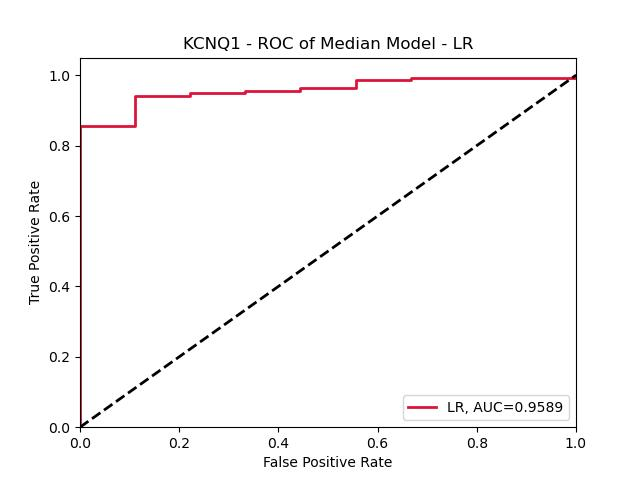
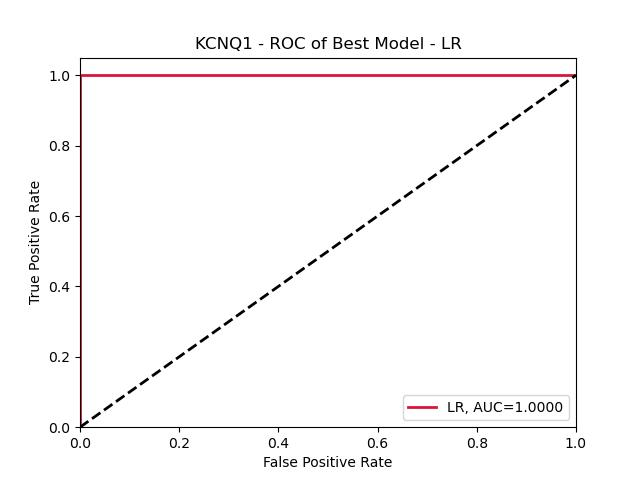
making more progress

Changed region(s): [[0.125, 0.1562, 0.9062, 0.2812], [0.2812, 0.0625, 0.75, 0.125], [0.8125, 0.8438, 0.875, 0.875]]

diff --git a/main.py b/main.py
@@ -5,6 +5,9 @@ import matplotlib.pyplot as plt
 import numpy as np
 import pandas as pd
 import seaborn as sns
+from sklearn.ensemble import GradientBoostingClassifier, RandomForestClassifier
+from sklearn.linear_model import LogisticRegression
+from sklearn.tree import DecisionTreeClassifier
 
 from data import prepare_data
 
@@ -20,23 +23,21 @@ class RunStudy:
         self.modeling_approach = modeling_approach
         self.what_to_run = what_to_run
         self.iterations = iterations
-        self.best_models_from_cross_validation = {} #this keeps a dictionary of the best model obtained for the cross-validation of the given seed. Key: seed, Value: best_model
 
         self.run_evaluate_with_various_seeds(self.gene_name, self.what_to_run, self.modeling_approach, self.iterations)
-        make_figures.MakeFigures(self.gene_name, self.median_model, self.data_median_model, self.results_df, self.modeling_approach)
+        make_figures.MakeFigures(self.gene_name, self.best_model, self.data_make_figures, self.results_df, self.modeling_approach, self.best_hyperparameters)
 
     def run_evaluate_with_various_seeds(self, gene_name, what_to_run, modeling_approach, iterations) -> pd.DataFrame:
         """This runs the run_evaluate method multiple times with different seeds in order to get the results for various train/test splits. It returns a DataFrame with the performance metrics and the hyperparameters picked for the given model."""
         all_features =['AA position', 'Score', 'Signal To Noise','Original','Change','Functional Domain']
         results_dict_list = []
-        unique_seeds = np.random.choice(np.arange(1, 270600), size=iterations, replace=False)
+        unique_seeds = np.random.choice(np.arange(11, 270600), size=iterations, replace=False)
         for i, seed in enumerate(unique_seeds):
             data = prepare_data.PrepareData(gene_name, all_features, seed) #Get data object with train/test splits for given seed
             print('\n*** Running ', modeling_approach,'***')
             run = run_models.RunModels(modeling_approach, data, what_to_run, seed) 
             evaluate = evaluate_models.EvaluateModels(modeling_approach, data, run.best_model, seed) #Evaluate best_model obtained from cross validation
-            self.best_models_from_cross_validation[seed] = run.best_model
-            print(evaluate.results_dict)
+            #print(evaluate.results_dict)
             results_dict_list.append(evaluate.results_dict)
 
         results_df = pd.DataFrame.from_dict(results_dict_list)
@@ -44,17 +45,35 @@ class RunStudy:
         #We need to group by hyperparameters, see which group performed the best across all different seeds and then use that group as the best model.
         print(results_df)
         self.results_df = results_df
-        get_best_hyperparameters.get_best_hyperparameters(results_df)
-        #Get seed for the best and median test AUC models to get the models and the splits used for their generation      
-        seed_median_model = results_df.iloc[len(results_df)//2, 0]
-        seed_best_model = results_df.iloc[0, 0]
-        self.median_model = self.best_models_from_cross_validation[seed_median_model]
-        self.best_model = self.best_models_from_cross_validation[seed_best_model]
-        self.data_best_model = prepare_data.PrepareData(self.gene_name, all_features, seed_best_model)
-        self.data_median_model = prepare_data.PrepareData(self.gene_name, all_features, seed_median_model)
+        best_hyperparameters = get_best_hyperparameters.get_best_hyperparameters(results_df) #Returns the group of hyperparameters that showed up the most and performed the best among the various runs of different seeds.
+        self.best_hyperparameters = best_hyperparameters
 
+        if modeling_approach == 'LR':
+            self.best_model = LogisticRegression(
+                penalty=best_hyperparameters.at[0,'Penalty'],
+                C=best_hyperparameters.at[0,'C'],
+                solver=best_hyperparameters.at[0, 'Solver'],
+            )
+            random_seed = np.random.randint(0, 10)
+            self.data_make_figures = prepare_data.PrepareData(self.gene_name, all_features, random_seed)
 
-RunStudy('KCNQ1', 'grid_search', 'LR', iterations=100)
+        elif modeling_approach == 'DecisionTree':
+            self.best_model = DecisionTreeClassifier(
+                max_depth=best_hyperparameters.at[0,'max_depth'],
+                criterion=best_hyperparameters.at[0, 'criterion'],
+            )
+
+        elif modeling_approach == 'RandomForest':
+            pass
+
+              
+
+        elif modeling_approach == 'GradientBoosting':
+            pass
+            
+        
+
+RunStudy('KCNQ1', 'grid_search', 'LR', iterations=3)
 # RunStudy('MYH7', 'grid_search', 'LR', iterations=100)
 # RunStudy('RYR2', 'grid_search', 'LR', iterations=100)
 

diff --git a/src/make_figures.py b/src/make_figures.py
@@ -15,15 +15,16 @@ import matplotlib.lines as mlines
 
 
 class MakeFigures:
-    def __init__(self, gene_name, model, data, results_df, modeling_approach):
+    def __init__(self, gene_name, model, data, results_df, modeling_approach, best_hyperparameters):
         self.gene_name = gene_name
         self.save_dir = "C:/dev/Python/gene-VUS-prediction/figures/"
         self.model = model #model to plot ROC for. Can be the best model or median model across all the seeds.
         self.data = data 
         self.results_df = results_df #this is the DataFrame containing the evaluated metrics and hyperparameters for each seed used.
         self.modeling_approach = modeling_approach
+        self.best_hyperparameters = best_hyperparameters
+
         #Plot characteristics
-        #COlors: https://matplotlib.org/tutorials/colors/colors.html
         self.color = 'crimson'
         self.linestyle = 'solid'
         self.neutral_color = 'k'
@@ -38,18 +39,24 @@ class MakeFigures:
         #ROC curve for model evaluation
         plt.clf()
         model = self.model
+        model.fit(self.data.X_test, self.data.y_test)
         pred_probs = model.decision_function(self.data.X_test)
         true_labels = self.data.y_test
         fpr, tpr, _ = sklearn.metrics.roc_curve(true_labels, pred_probs, pos_label = 1)
         roc_auc = sklearn.metrics.auc(fpr, tpr)
         line, = plt.plot(fpr, tpr, color=self.color, lw=self.lw, linestyle = self.linestyle)
 
+        best_hyperparameters_text = ''
+        for i in range(1, len(self.best_hyperparameters.columns)):
+            best_hyperparameters_text = best_hyperparameters_text + f'{self.best_hyperparameters.columns[i]}: {self.best_hyperparameters.iat[1,i]}' + '\n'
+        print(best_hyperparameters_text)
+        plt.text(1,1, best_hyperparameters_text)
         plt.plot([0, 1], [0, 1], color=self.neutral_color, lw=self.lw, linestyle=self.neutral_linestyle) #diagonal line
         plt.xlim([0.0, 1.0])
         plt.ylim([0.0, 1.05])
         plt.xlabel('False Positive Rate')
         plt.ylabel('True Positive Rate')
-        plt.title(f'{self.gene_name} - ROC of Median Model - {self.modeling_approach}')
+        plt.title(f'{self.gene_name} - ROC of Best Model - {self.modeling_approach}')
         plt.legend([line], [f'{self.modeling_approach}, AUC=%0.4f' % roc_auc,], loc='lower right')
         plt.savefig(os.path.join(self.save_dir, self.gene_name+f'_Median_Model_{self.modeling_approach}_ROC_Curve.jpg'))
         plt.close()

diff --git a/src/evaluate_models.py b/src/evaluate_models.py
@@ -1,4 +1,5 @@
 import pandas as pd
+import sklearn.metrics
 from sklearn.linear_model import LogisticRegression
 from sklearn.metrics import roc_auc_score
 from sklearn.model_selection import GridSearchCV
@@ -47,6 +48,7 @@ class EvaluateModels(object):
         
         # print('LR Train: ', self.best_model.score(self.data.X_train, self.data.y_train)) # this is the performance on the whole training set.
         # print('LR Test: ', self.best_model.score(self.data.X_test, self.data.y_test)) # this is the performance on the test set.
+
         self.results_dict = {'Seed': self.seed,
                              'Best K-fold AUC': self.best_model.best_score_,
                              'Train AUC': self.best_model.score(self.data.X_train, self.data.y_train),
@@ -54,6 +56,11 @@ class EvaluateModels(object):
                              'Penalty': self.best_model.best_params_['penalty'],
                              'C': self.best_model.best_params_['C'],
                              'Solver': self.best_model.best_params_['solver']}
+        
+        # pred_probs = self.best_model.decision_function(self.data.X_test)
+        # true_labels = self.data.y_test
+        # fpr, tpr, _ = sklearn.metrics.roc_curve(true_labels, pred_probs, pos_label = 1)
+        # print('Test AUC Through Other Method', sklearn.metrics.auc(fpr, tpr))     
         
 
     def _evaluate_decision_tree(self):

diff --git a/utils/get_best_hyperparameters.py b/utils/get_best_hyperparameters.py
@@ -4,6 +4,18 @@ import pandas as pd
 
 def get_best_hyperparameters(results_df):
     '''This gets results_df, groups the models with same hyperparameters, averages the performance of each group and returns the hyperparameters with best average.'''
-    results_df_grouped = results_df.groupby(results_df.columns.tolist()[4:])['Test AUC'].agg(np.mean)
-    print(results_df_grouped)
-    #We have to find a way to account for the quantity of models. If a group of hyperparameters appears much more among the best ones, their average must have more weight. Maybe multiple avg. by log? 
+    grouped = results_df.groupby(results_df.columns.tolist()[4:])['Test AUC'].agg(['mean', 'count']).reset_index()
+    print(grouped)
+    #We have to account for the quantity of models. If a group of hyperparameters appears much more among the best ones, their average must have more weight.
+    #Calculate the total number of models
+    total_models = grouped['count'].sum()
+    #Calculate the weighted mean by the proportion of each group
+    grouped['weight'] = grouped['mean'] * (grouped['count'] / total_models)
+    print(grouped)
+    best_group = grouped.loc[grouped[['mean']].idxmax()]
+    print(best_group)
+    best_group.drop(['count'], inplace=True, axis=1)
+    best_group.rename({'mean': 'mean AUC'}, inplace=True)
+    print(best_group)
+    return best_group.reset_index()
+
